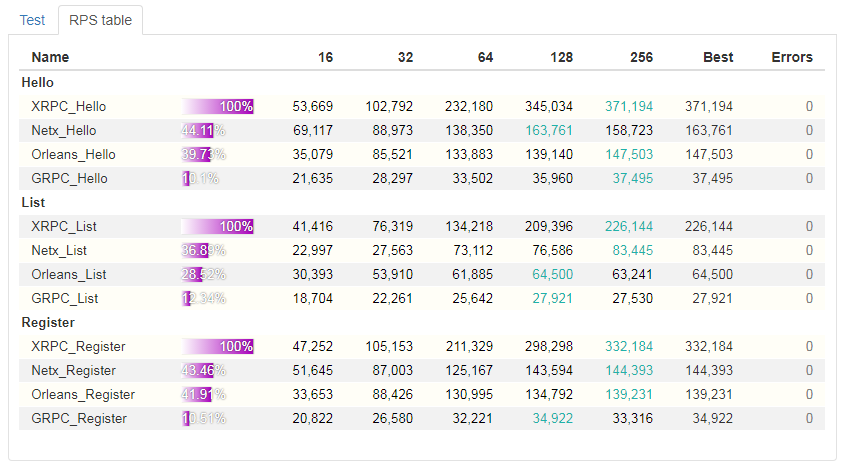
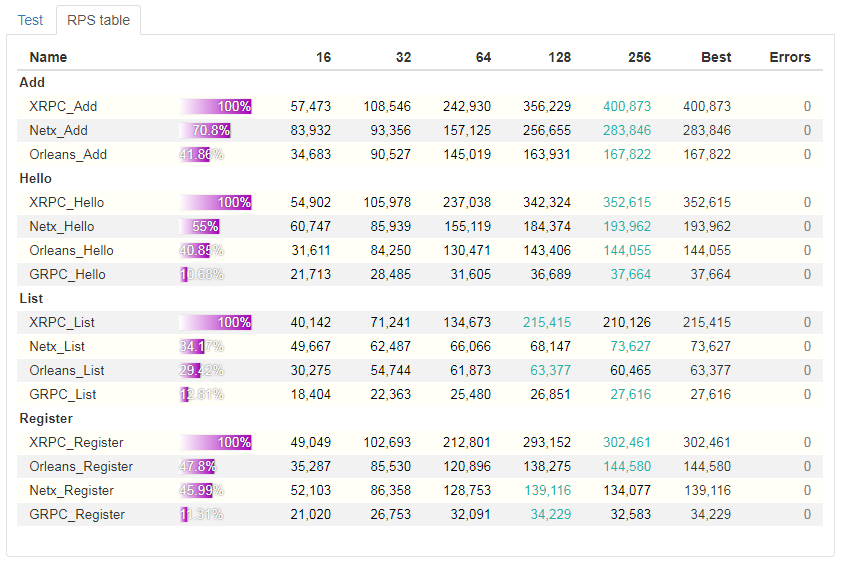
no message

Changed region(s): [[0.0, 0.0, 1.0, 0.9893], [0.0, 0.2698, 0.1544, 0.9293], [0.0, 0.9593, 0.0309, 0.9893]]

diff --git a/README.md b/README.md
@@ -14,7 +14,11 @@ rpc component benchmarks for dotnet
 - **System:**  Windows server
 
 ### [Result status](https://github.com/IKende/dotnet-rpc-benchmark/tree/master/Result)
+- 10Gb network
 ![](https://github.com/IKende/dotnet-rpc-benchmark/raw/master/Result/10G-Result.png?raw=true)
+
+- 1Gb network
+![](https://github.com/IKende/dotnet-rpc-benchmark/raw/master/Result/1G-Result.png?raw=true)
 
 ### /tree/master/RPCBenchmark/Examples
 client examples folder
